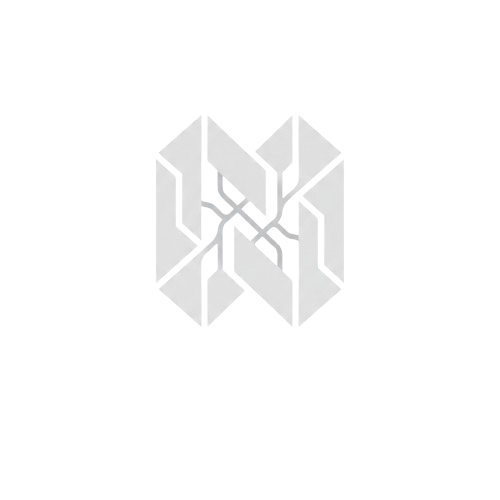
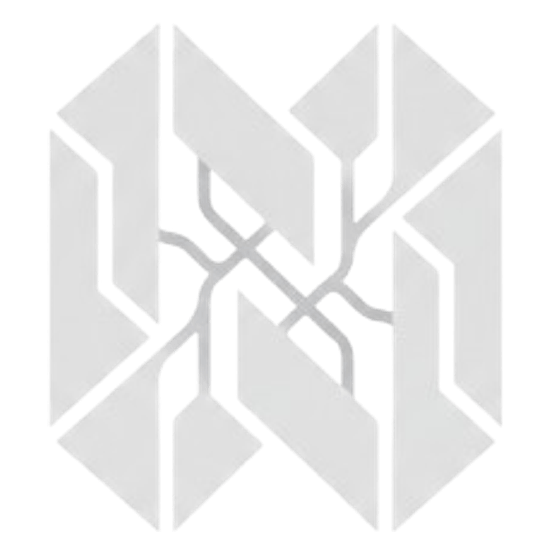
google auth

diff --git a/src/app/login/page.tsx b/src/app/login/page.tsx
@@ -4,6 +4,12 @@ import { useEffect, useState } from "react";
 import { useRouter } from "next/navigation";
 import { signIn } from "next-auth/react";
 import { ConnectModal, useCurrentAccount } from "@mysten/dapp-kit";
+import Image from "next/image";
+
+
+function Logo() {
+  return <Image src="/neurus_clean-removebg-preview.png" alt="Neurus" width={50} height={50} priority />;
+}
 
 function GoogleIcon() {
   return (
@@ -32,7 +38,10 @@ function LoginCard() {
     >
       <div className="hidden flex-1 flex-col justify-between p-12 lg:flex">
         <div className="flex items-center gap-2 text-lg font-semibold">
-          <span className="grid h-7 w-7 place-items-center rounded-md bg-[#9aa8f0] text-[#14152b]">◳</span>
+          <span className="grid h-15 w-15 place-items-center rounded-md text-[#14152b]">
+            <Logo />
+
+          </span>
           Neurus
         </div>
         <div>
